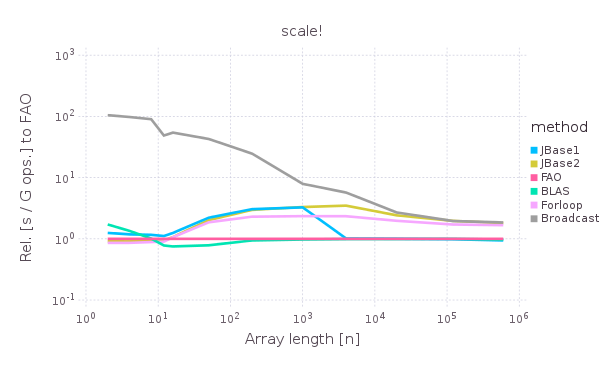
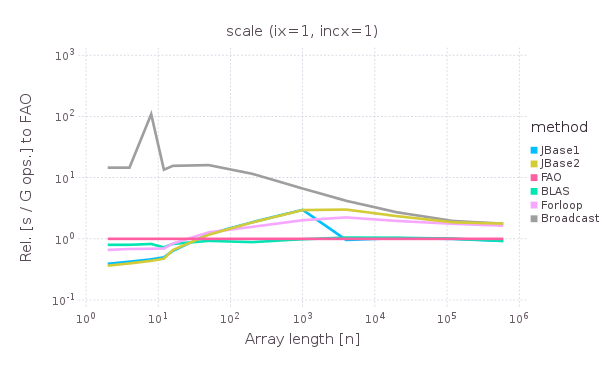
change benchmarks

diff --git a/README.md b/README.md
@@ -1,11 +1,18 @@
 
 FastArrayOps.jl
----------
+===============
 
 A [Julia](https://github.com/JuliaLang/julia) package for fast inplace Array operations.
 
-See license (MIT) in LICENSE.md.
+Contains a large collection of benchmarks in `/perf`. They (should) show that the functions in this package provide the fastest way of performing the specified operation in julia, on average over a large range of parameters.
 
+Different or new implementations or benchmark cases are welcome as issues or pull requests.
+
+Currently implemented:
+
+* fast_scale!(x, ix, a, n, incx)
+
+See license (MIT) in LICENSE.md.
 
 Usage
 ---------
@@ -20,10 +27,11 @@ julia> using FastArrayOps
 API
 ---------
 
-* All functions are inplace, overwriting the first argument. 
-* No Array allocations
+* All functions are inplace (or out-of-place), overwriting the first argument.
+* No Array allocations.
 * Element types supported are real and complex floating point numbers. 
 * `x,y,z` are Arrays of any size, `a` is a scalar, `incx` is the stride of `x`, `ix` is the starting index of `x`, `n` is the number of elements to use or modify. A negative stride `incx` reverses the indexing order.
+* All functions `f` have an `unsafe_f` version without any argument or bounds checks (e.g. `unsafe_fast_scale!`).
 
 ```julia
 # scale by scalar
@@ -38,7 +46,7 @@ fast_add!(x, ix, y, iy, a, n, incx, incy)               # x = y + a
 # add array
 fast_add!(x, ix, y, iy, n, incx, incy)                  # x = x + y
 fast_add!(x, ix, y, iy, z, iz, n, incx, incy, incz)     # x = y + z
-# add array times constant
+# add array times scalar
 fast_add!(x, ix, a, y, iy, n, incx, incy)               # x = x + a*y
 fast_add!(x, ix, y, iy, a, z, iz, n, incx, incy, incz)  # x = y + a*z
 # copy array
@@ -47,6 +55,8 @@ fast_copy!(x, ix, y, iy, n, incx, incy)                 # x <- y
 
 Benchmarks
 ---------
+
+Benchmarks with `Float64` Arrays on Intel Core i7 3612QM 2,1-3,1GHz quad core 64bit. See directory `/perf` for details.
 
 ![Scale1](/perf/scale_incx1.png)
 
